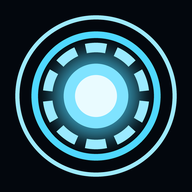
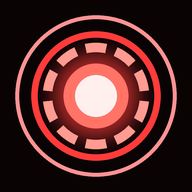
v2.2: kırmızı tema, Recast Audition okuma/düzenleme (onaylı, geri alınabilir)
Claude-Session: https://claude.ai/code/session_01RdxYARfPr9j1EKb8PJH9ki

diff --git a/www/app.js b/www/app.js
@@ -917,7 +917,7 @@ async function renderSettings() {
     <form class="form" data-add-mem><div class="row"><input name="text" placeholder="Elle ekle"><button class="btn">+</button></div></form></div>
 
   <div class="card"><h3>VERİ</h3><div class="row"><button class="btn ghost sm" id="exportBtn">Yedeği kopyala</button><button class="btn ghost sm" id="importBtn">Yedeği yükle</button><button class="btn ghost sm" id="clearChat">Sohbeti sil</button></div>
-    <div class="hint">Titus v2.1 · ${NATIVE ? "Android" : "Web"} · Tüm veriler cihazında.</div></div>`;
+    <div class="hint">Titus v2.2 · ${NATIVE ? "Android" : "Web"} · Tüm veriler cihazında.</div></div>`;
   if (Jarvis) nat(() => Jarvis.wakeStatus()).then(r => r && showWake(r));
 }
 function showWake(r) {
@@ -2308,7 +2308,7 @@ const blobToB64 = b => new Promise(r => { const f = new FileReader(); f.onload =
 const pickFiles = (accept, multiple = false) => new Promise(res => { const i = document.createElement("input"); i.type = "file"; i.accept = accept; i.multiple = multiple; i.onchange = () => res([...(i.files || [])]); i.click(); });
 const loadImg = src => new Promise((res, rej) => { const i = new Image(); i.onload = () => res(i); i.onerror = rej; i.src = src; });
 const fileImg = async f => { const u = URL.createObjectURL(f); const i = await loadImg(u); i._url = u; return i; };
-const brand = () => (SET.brands || []).find(b => b.id === SET.brandId) || { name: SET.name, primary: "#0b2236", accent: "#4fd8ff", text: "#ffffff", font: "Arial", logo: "" };
+const brand = () => (SET.brands || []).find(b => b.id === SET.brandId) || { name: SET.name, primary: "#2c0a0d", accent: "#ff3b3b", text: "#ffffff", font: "Arial", logo: "" };
 const fname = (base, ext) => `${String(base || "jarvis").replace(/[^\wçğıöşüÇĞİÖŞÜ -]/g, "").trim().replace(/\s+/g, "-").slice(0, 40) || "jarvis"}-${ymd(new Date())}.${ext}`;
 
 /* ---------- dosya kaydetme ve paylaşma ---------- */
@@ -2473,9 +2473,9 @@ async function compositeCard(files, info) {
   if (imgs[0]) cover(imgs[0], pad2, pad2, 1000, H - bar - pad2 * 2);
   const gx = 1000 + pad2 * 2, gw = (W - gx - pad2 - pad2) / 2, gh = (H - bar - pad2 * 3) / 2;
   imgs.slice(1, 5).forEach((im, i) => cover(im, gx + (i % 2) * (gw + pad2), pad2 + Math.floor(i / 2) * (gh + pad2), gw, gh));
-  g.fillStyle = b.primary || "#0b2236"; g.fillRect(0, H - bar, W, bar);
+  g.fillStyle = b.primary || "#2c0a0d"; g.fillRect(0, H - bar, W, bar);
   g.fillStyle = "#fff"; g.font = "800 92px Rajdhani, Arial"; g.textBaseline = "middle"; g.fillText((info.name || SET.name).toLocaleUpperCase("tr-TR"), 60, H - bar / 2 - 30);
-  g.font = "500 44px Rajdhani, Arial"; g.fillStyle = b.accent || "#4fd8ff"; g.fillText(info.stats || "", 60, H - bar / 2 + 52);
+  g.font = "500 44px Rajdhani, Arial"; g.fillStyle = b.accent || "#ff3b3b"; g.fillText(info.stats || "", 60, H - bar / 2 + 52);
   g.textAlign = "right"; g.fillStyle = "#fff"; g.font = "600 40px Rajdhani, Arial"; g.fillText(info.contact || b.name || "", W - (b.logo ? 360 : 60), H - bar / 2);
   if (b.logo) { const L = await loadImg(b.logo); const lh = 140, lw = lh * L.width / L.height; g.drawImage(L, W - lw - 60, H - bar / 2 - lh / 2, lw, lh); }
   imgs.forEach(i => URL.revokeObjectURL(i._url));
@@ -2524,7 +2524,7 @@ async function renderVideo({ clips, format = "9:16", music = null, subs = "none"
   const b = brand(); let curSub = "";
   const drawCover = (src, sw, sh, zoom = 1, px = 0.5, py = 0.4) => { const r = Math.max(W / sw, H / sh) * zoom; const dw = sw * r, dh = sh * r; g.drawImage(src, (W - dw) * px, (H - dh) * py, dw, dh); };
   const drawSub = () => { if (!curSub) return; const fs = Math.round(W * 0.052); g.font = `700 ${fs}px Rajdhani, Arial`; g.textAlign = "center"; g.lineJoin = "round"; const words = curSub.split(" "); const lines = []; let l = ""; for (const w of words) { if (g.measureText(l + " " + w).width > W * 0.86 && l) { lines.push(l); l = w; } else l = (l ? l + " " : "") + w; } lines.push(l); lines.forEach((t, i) => { const y = H * 0.82 + i * fs * 1.15; g.lineWidth = fs * 0.18; g.strokeStyle = "rgba(0,0,0,.85)"; g.strokeText(t, W / 2, y); g.fillStyle = "#fff"; g.fillText(t, W / 2, y); }); };
-  const drawCard = (title, sub) => { g.fillStyle = b.primary || "#0b2236"; g.fillRect(0, 0, W, H); g.fillStyle = b.accent || "#4fd8ff"; g.fillRect(W * .1, H * .5 + 6, W * .8, 4); g.textAlign = "center"; g.fillStyle = "#fff"; g.font = `800 ${Math.round(W * .075)}px Rajdhani, Arial`; g.fillText(title || "", W / 2, H * .47); g.font = `500 ${Math.round(W * .042)}px Rajdhani, Arial`; g.fillStyle = "#ddd"; (sub || "").split("\n").forEach((s, i) => g.fillText(s, W / 2, H * .57 + i * W * .055)); };
+  const drawCard = (title, sub) => { g.fillStyle = b.primary || "#2c0a0d"; g.fillRect(0, 0, W, H); g.fillStyle = b.accent || "#ff3b3b"; g.fillRect(W * .1, H * .5 + 6, W * .8, 4); g.textAlign = "center"; g.fillStyle = "#fff"; g.font = `800 ${Math.round(W * .075)}px Rajdhani, Arial`; g.fillText(title || "", W / 2, H * .47); g.font = `500 ${Math.round(W * .042)}px Rajdhani, Arial`; g.fillStyle = "#ddd"; (sub || "").split("\n").forEach((s, i) => g.fillText(s, W / 2, H * .57 + i * W * .055)); };
   const total = clips.reduce((s, c) => s + ((c.end ?? 3) - (c.start || 0)), 0); let done = 0;
   rec.start(500); if (mEl) mEl.play().catch(() => {});
   if (narration) { const src = ac.createBufferSource(); src.buffer = narration; src.connect(dest); src.start(); }
@@ -2625,7 +2625,7 @@ FORMS.doc = FORMS.photo = FORMS.image = FORMS.video = FORMS.card = FORMS.files =
         <div class="hint" id="vidProg"></div><div class="hint">Telefonda işleme gerçek süre kadar sürer; 1-2 dakikalık videolar idealdir.</div>`;
       case "card": return `<div class="card"><h3>KOMPOZİT KART (ZED CARD)</h3><div class="form"><input id="ccName" value="${esc(SET.name)}" placeholder="Ad Soyad"><input id="ccStats" placeholder="Boy 1.80 · Göz kahve · Saç siyah · Beden M"><input id="ccContact" placeholder="İletişim / ajans" value="${esc(brand().name || "")}"><button class="btn" id="ccGo">🗂 Fotoğrafları seç (1 büyük + 4 küçük) ve kart yap</button></div></div>
         <div class="card"><h3>MARKA KİTİ</h3>${(SET.brands || []).map(b => `<div class="step"><span><b style="color:${esc(b.accent)}">■</b> ${esc(b.name)}${b.id === SET.brandId ? " · aktif" : ""}</span><button class="btn ghost sm" data-brand="${b.id}">Seç</button><button class="x" data-brdel="${b.id}">✕</button></div>`).join("") || `<div class="hint">Marka yok.</div>`}
-        <div class="form" style="margin-top:6px"><input id="brName" placeholder="Marka adı (ör. Recast Talent House)"><div class="row"><div><div class="lbl">Ana renk</div><input id="brP" type="color" value="#0b2236" style="padding:2px;height:40px"></div><div><div class="lbl">Vurgu</div><input id="brA" type="color" value="#4fd8ff" style="padding:2px;height:40px"></div></div><div class="row"><button class="btn ghost sm" id="brLogo">Logo seç</button><button class="btn sm" id="brAdd">+ Marka ekle</button></div></div></div>`;
+        <div class="form" style="margin-top:6px"><input id="brName" placeholder="Marka adı (ör. Recast Talent House)"><div class="row"><div><div class="lbl">Ana renk</div><input id="brP" type="color" value="#2c0a0d" style="padding:2px;height:40px"></div><div><div class="lbl">Vurgu</div><input id="brA" type="color" value="#ff3b3b" style="padding:2px;height:40px"></div></div><div class="row"><button class="btn ghost sm" id="brLogo">Logo seç</button><button class="btn sm" id="brAdd">+ Marka ekle</button></div></div></div>`;
       case "files": return `<div class="card"><h3>ÜRETİLEN DOSYALAR</h3>${(S.files || []).map((f, i) => `<div class="item"><div class="ic">${/pptx/.test(f.name) ? "📊" : /docx/.test(f.name) ? "📄" : /mp4|webm/.test(f.name) ? "🎬" : /html/.test(f.name) ? "🌐" : "🖼"}</div><div class="t"><div class="h">${esc(f.name)}</div><div class="meta">${esc(f.path || "")} · ${fmtWhen(f.at)}</div></div><button class="btn ghost sm" data-share="${i}">Paylaş</button></div>`).join("") || `<div class="empty">Henüz dosya yok.</div>`}</div>`;
     }
     return baseList2(sec);
@@ -3161,6 +3161,71 @@ TOOL_GROUPS.push([/brief|recast|teklif|oyuncu öner|casting mail|müşteri/, ["r
       <div class="form"><div class="lbl">Rol başına en fazla öneri</div><input data-set="rbPerRole" type="number" value="${SET.rbPerRole || 6}"></div></div>`);
   };
 }
+
+/* =====================================================================
+   v2.2 — RECAST AUDITION ERİŞİMİ: Titus işleri, başvuruları, tape durumlarını okur ve
+   Burak'ın isteğine göre düzenler (her değişiklik önce onaya gelir).
+   ===================================================================== */
+let AUD_SCHEMA = null, AUD_AT = 0;
+async function audSchema(force) {
+  if (!force && AUD_SCHEMA && Date.now() - AUD_AT < 30 * 6e4) return AUD_SCHEMA;
+  AUD_SCHEMA = await script("audInfo", { sheetId: SET.auditionSheetId || "" }); AUD_AT = Date.now();
+  if (AUD_SCHEMA.id && SET.auditionSheetId !== AUD_SCHEMA.id) { SET.auditionSheetId = AUD_SCHEMA.id; saveSet(); }
+  return AUD_SCHEMA;
+}
+const audShort = sc => (sc.sayfalar || []).map(p => `${p.ad} (${p.satir} kayıt): ${p.basliklar.join(", ")}${p.ornek[0] ? "\n  örnek: " + JSON.stringify(p.ornek[0]).slice(0, 300) : ""}`).join("\n");
+const audFmt = v => /^1\d{12}$/.test(String(v)) ? fmtWhen(localISO(new Date(Number(v)))) : String(v).slice(0, 60);
+function diffText(eski, yeni) { return Object.keys(yeni).map(k => `• ${k}: ${eski && eski[k] !== undefined ? `"${audFmt(eski[k])}" → ` : ""}"${audFmt(yeni[k])}"`).join("\n"); }
+
+async function audFind(sayfa, ara) { return script("audRead", { sheetId: SET.auditionSheetId || "", sayfa, ara: ara || "", limit: 25 }); }
+
+TOOLS.push(
+  T("audition_yapi", "Recast Audition uygulamasının veri tablosundaki sayfaları (ör. ISLER, BASVURULAR, GONDERIMLER), sütunlarını ve örnek kayıtları gösterir. Audition ile ilgili bir şeyi okumadan/düzenlemeden önce bir kez çağır.", {}, [], async () => { const sc = await audSchema(true); return { tablo: sc.tablo, yapi: audShort(sc) }; }),
+  T("audition_oku", "Recast Audition'dan kayıt okur/arar (işler, başvurular, tape durumları, gönderimler).", { sayfa: str("Sayfa adı, ör. ISLER"), ara: str("Aranacak kelime (proje, oyuncu adı, durum…) — boşsa en yeniler") }, ["sayfa"], a => audFind(a.sayfa, a.ara)),
+  T("audition_duzenle", "Recast Audition'daki bir kaydı Burak'ın istediği gibi değiştirir (ör. işin son teslim tarihi, durum, açıklama, ücret, rol notu, tape durumu). Önce audition_oku ile kaydın id'sini ve sütunların mevcut biçimini öğren; tarih/sayı sütunlarını aynı biçimde yaz (ör. milisaniye zaman damgası ise milisaniye). Burak'a onay sorulur.", { sayfa: str("Sayfa"), id: str("Kaydın id'si"), degisiklikler_json: str('Değişecek sütunlar JSON olarak, ör. {"durum":"Kapandı"}') }, ["sayfa", "id", "degisiklikler_json"],
+    async a => {
+      let ch; try { ch = JSON.parse(a.degisiklikler_json); } catch { return { hata: "degisiklikler_json geçerli JSON değil" }; }
+      let cur = null; try { cur = ((await audFind(a.sayfa, a.id)).satirlar || []).find(r => String(r.id) === String(a.id)); } catch {}
+      if (!(await confirmBox(`Recast Audition · ${a.sayfa}${cur ? " · " + (cur.proje || cur.ad || cur.baslik || a.id) : ""}\n${diffText(cur, ch)}`, "Değiştir"))) return { iptal: true };
+      const r = await script("audUpdate", { sheetId: SET.auditionSheetId || "", sayfa: a.sayfa, id: a.id, degisiklikler: ch });
+      S.audLog = [{ at: localISO(new Date()), sayfa: a.sayfa, id: a.id, eski: r.eski, yeni: ch }, ...(S.audLog || [])].slice(0, 40); save();
+      return { ok: true, eski: r.eski, not: "Audition uygulamasında sayfayı yenileyince görünür. Bu değişiklik oyunculara/müşteriye otomatik bildirim göndermez." };
+    }),
+  T("audition_ekle", "Recast Audition'a yeni kayıt ekler (ör. yeni iş). Önce audition_yapi ile sütunları öğren, uygulamanın kullandığı biçimde doldur. Burak'a onay sorulur.", { sayfa: str("Sayfa"), kayit_json: str("Yeni kayıt JSON (sütun adı: değer)") }, ["sayfa", "kayit_json"],
+    async a => {
+      let k; try { k = JSON.parse(a.kayit_json); } catch { return { hata: "kayit_json geçerli JSON değil" }; }
+      if (!(await confirmBox(`Recast Audition · ${a.sayfa} sayfasına eklensin mi?\n${diffText(null, k)}`, "Ekle"))) return { iptal: true };
+      return script("audAdd", { sheetId: SET.auditionSheetId || "", sayfa: a.sayfa, kayit: k });
+    }),
+  T("audition_geri_al", "Titus'un Recast Audition'da yaptığı son değişikliği geri alır.", {}, [],
+    async () => { const l = (S.audLog || [])[0]; if (!l) return { hata: "Geri alınacak değişiklik yok" }; if (!(await confirmBox(`Son değişiklik geri alınsın mı?\n${l.sayfa} · ${diffText(l.yeni, l.eski)}`, "Geri al"))) return { iptal: true }; await script("audUpdate", { sheetId: SET.auditionSheetId || "", sayfa: l.sayfa, id: l.id, degisiklikler: l.eski }); S.audLog.shift(); save(); return { ok: true }; }),
+  T("audition_ac", "Recast Audition uygulamasını açar.", {}, [], async () => { if (!SET.auditionUrl) return { hata: "Audition adresi yok (Ayarlar → Recast Audition)." }; await openUrl(SET.auditionUrl); return { ok: true }; })
+);
+Object.assign(ACT_TR, { audition_yapi: "🎞 audition", audition_oku: "🎞 audition", audition_duzenle: "✏ audition", audition_ekle: "➕ audition", audition_geri_al: "↩ audition", audition_ac: "🎞 aç" });
+TOOL_GROUPS.push([/audition|self-?tape|tape|başvuru|seçme işi|işler|son teslim|reshoot|tekrar çek|müşteriye gönder|casting direkt/, ["audition_yapi", "audition_oku", "audition_duzenle", "audition_ekle", "audition_geri_al", "audition_ac"]]);
+{
+  const baseSys = systemPrompt;
+  systemPrompt = function () {
+    let s = baseSys();
+    if (SET.scriptUrl) s += "\nRECAST AUDITION: Burak'ın ajans audition uygulamasına audition_* araçlarıyla erişebilirsin. Okumadan önce gerekirse audition_yapi ile yapıyı öğren. Değişiklikleri onun istediği şekilde, mevcut veri biçimini koruyarak yap; büyük toplu değişikliklerde önce ne yapacağını özetle." + (AUD_SCHEMA ? "\nAUDITION YAPISI:\n" + audShort(AUD_SCHEMA).slice(0, 2500) : "");
+    return s;
+  };
+}
+{
+  const base = renderSettings;
+  renderSettings = async function () {
+    await base();
+    $("#b-set").insertAdjacentHTML("beforeend", `<div class="card"><h3>RECAST AUDITION</h3><div class="form">
+      <div class="lbl">Uygulama adresi</div><input data-set="auditionUrl" value="${esc(SET.auditionUrl || "")}" placeholder="https://recast-audition.netlify.app/#KODUN">
+      <div class="lbl">"RECAST AUDITION — Veriler" tablo kimliği (boş bırakırsan adıyla bulunur)</div><input data-set="auditionSheetId" value="${esc(SET.auditionSheetId || "")}" placeholder="1AbC…">
+      <div class="row"><button class="btn ghost sm" id="audTest">Bağlantıyı dene</button></div>
+      <div class="hint">Titus işleri, başvuruları ve tape durumlarını okuyup senin istediğin gibi düzenler; her değişiklik önce onayına gelir, "geri al" diyebilirsin. Titus'un Google bağlantısı, Audition'ın kurulu olduğu Google hesabıyla aynı olmalı.</div></div></div>`);
+  };
+}
+document.addEventListener("click", async e => {
+  if (!e.target.closest("#audTest")) return;
+  try { const sc = await audSchema(true); toast(`✓ ${sc.tablo}: ${(sc.sayfalar || []).map(p => p.ad + " " + p.satir).join(", ")}`, 6000); } catch (er) { toast("✗ " + er.message, 6000); }
+});
 
 /* ================= açılış ================= */
 async function boot() {

diff --git a/www/style.css b/www/style.css
@@ -1,18 +1,18 @@
 :root{
-  --bg:#03070d; --panel:rgba(10,24,38,.78); --line:rgba(80,200,255,.22);
-  --cyan:#4fd8ff; --cyan2:#9beaff; --gold:#ffb547; --red:#ff4f5e; --green:#3ee68a;
-  --txt:#d8f3ff; --dim:#7aa3b8;
+  --bg:#0a0304; --panel:rgba(34,9,11,.78); --line:rgba(255,72,72,.22);
+  --cyan:#ff3b3b; --cyan2:#ff9b8f; --gold:#ffb547; --red:#ff9f43; --green:#3ee68a;
+  --txt:#ffe5e1; --dim:#bf948f;
   --st:env(safe-area-inset-top,0px); --sb:env(safe-area-inset-bottom,0px);
 }
 *{box-sizing:border-box;margin:0;padding:0;-webkit-tap-highlight-color:transparent}
 html,body{height:100%;overscroll-behavior:none}
-body{background:radial-gradient(1000px 600px at 50% -10%,#0b2236 0%,var(--bg) 60%) fixed;color:var(--txt);
+body{background:radial-gradient(1000px 600px at 50% -10%,#2c0a0d 0%,var(--bg) 60%) fixed;color:var(--txt);
   font-family:"Rajdhani","Segoe UI",Roboto,system-ui,sans-serif;font-size:16px}
 body:before{content:"";position:fixed;inset:0;pointer-events:none;
-  background-image:linear-gradient(rgba(79,216,255,.035) 1px,transparent 1px),linear-gradient(90deg,rgba(79,216,255,.035) 1px,transparent 1px);background-size:34px 34px}
+  background-image:linear-gradient(rgba(255,59,59,.035) 1px,transparent 1px),linear-gradient(90deg,rgba(255,59,59,.035) 1px,transparent 1px);background-size:34px 34px}
 #app{display:flex;flex-direction:column;height:100%;max-width:900px;margin:0 auto;padding-top:var(--st)}
 .top{display:flex;justify-content:space-between;align-items:center;padding:10px 14px 6px}
-.brand{font-weight:800;letter-spacing:.32em;color:var(--cyan);font-size:19px;text-shadow:0 0 14px rgba(79,216,255,.6)}
+.brand{font-weight:800;letter-spacing:.32em;color:var(--cyan);font-size:19px;text-shadow:0 0 14px rgba(255,59,59,.6)}
 .brand small{display:block;letter-spacing:.14em;font-size:11px;color:var(--dim);font-weight:600}
 .clock{text-align:right;color:var(--cyan2);font-size:20px;font-weight:700;font-variant-numeric:tabular-nums}
 .clock small{display:block;font-size:12px;color:var(--dim);font-weight:500}
@@ -24,10 +24,10 @@ main{flex:1;min-height:0;position:relative}
 .core{display:flex;flex-direction:column;align-items:center;gap:6px;padding:4px 0}
 .reactor{width:132px;height:132px;border-radius:50%;position:relative;border:none;background:transparent;cursor:pointer;flex:none}
 .reactor .r{position:absolute;border-radius:50%}
-.reactor .r1{inset:0;border:2px dashed rgba(79,216,255,.4);animation:spin 18s linear infinite}
+.reactor .r1{inset:0;border:2px dashed rgba(255,59,59,.4);animation:spin 18s linear infinite}
 .reactor .r2{inset:13px;border:3px solid transparent;border-top-color:var(--cyan);border-bottom-color:var(--cyan);animation:spin 6s linear infinite reverse}
-.reactor .r3{inset:27px;border:2px solid rgba(155,234,255,.5);animation:spin 10s linear infinite}
-.reactor .c{position:absolute;inset:41px;border-radius:50%;background:radial-gradient(circle,#e9fbff 0%,#7fe3ff 35%,#1a8fc0 70%,transparent 72%);box-shadow:0 0 30px #4fd8ff,0 0 70px rgba(79,216,255,.5)}
+.reactor .r3{inset:27px;border:2px solid rgba(255,155,145,.5);animation:spin 10s linear infinite}
+.reactor .c{position:absolute;inset:41px;border-radius:50%;background:radial-gradient(circle,#fff0ee 0%,#ff7466 35%,#c21a1a 70%,transparent 72%);box-shadow:0 0 30px #ff3b3b,0 0 70px rgba(255,59,59,.5)}
 .reactor.listen .c{animation:pulse .8s ease-in-out infinite;background:radial-gradient(circle,#fff 0%,#ffd38a 35%,#ff9d1c 70%,transparent 72%);box-shadow:0 0 30px var(--gold),0 0 80px rgba(255,181,71,.55)}
 .reactor.think .r2{animation-duration:1.1s}
 .reactor.speak .c{animation:pulse .45s ease-in-out infinite}
@@ -36,11 +36,11 @@ main{flex:1;min-height:0;position:relative}
 .status{font-size:12px;letter-spacing:.3em;color:var(--dim);text-transform:uppercase;min-height:15px;text-align:center;font-weight:700}
 .chips{display:flex;gap:6px;overflow-x:auto;max-width:100%;padding:4px 2px;scrollbar-width:none}
 .chips::-webkit-scrollbar{display:none}
-.chip{flex:none;background:rgba(79,216,255,.08);border:1px solid var(--line);color:var(--cyan2);padding:7px 11px;border-radius:999px;font:600 14px inherit;font-family:inherit;cursor:pointer}
+.chip{flex:none;background:rgba(255,59,59,.08);border:1px solid var(--line);color:var(--cyan2);padding:7px 11px;border-radius:999px;font:600 14px inherit;font-family:inherit;cursor:pointer}
 .log{flex:1;min-height:0;overflow-y:auto;display:flex;flex-direction:column;gap:8px;padding:6px 2px}
 .msg{max-width:88%;padding:9px 12px;border-radius:12px;line-height:1.38;white-space:pre-wrap;word-wrap:break-word;font-size:16px}
 .msg.u{align-self:flex-end;background:rgba(255,181,71,.12);border:1px solid rgba(255,181,71,.3)}
-.msg.j{align-self:flex-start;background:rgba(79,216,255,.08);border:1px solid var(--line)}
+.msg.j{align-self:flex-start;background:rgba(255,59,59,.08);border:1px solid var(--line)}
 .msg.j b{font-size:10px;letter-spacing:.22em;color:var(--cyan);display:block;margin-bottom:2px}
 .msg.sys{align-self:center;font-size:13px;color:var(--dim);background:none;text-align:center}
 .msg .acts{font-size:12px;color:var(--dim);margin-top:4px}
@@ -49,7 +49,7 @@ input,select,textarea{background:rgba(0,0,0,.38);border:1px solid var(--line);bo
 textarea{min-height:110px;resize:vertical}
 input:focus,select:focus,textarea:focus{border-color:var(--cyan)}
 .inbar input{flex:1}
-.btn{background:linear-gradient(180deg,#1aa6d6,#0b6f95);border:1px solid #57d9ff;color:#eafcff;border-radius:10px;padding:0 14px;font:700 15px inherit;font-family:inherit;cursor:pointer;min-height:44px;white-space:nowrap}
+.btn{background:linear-gradient(180deg,#e03030,#9a1414);border:1px solid #ff6a5e;color:#fff1ef;border-radius:10px;padding:0 14px;font:700 15px inherit;font-family:inherit;cursor:pointer;min-height:44px;white-space:nowrap}
 .btn.ghost{background:transparent;border-color:var(--line);color:var(--cyan2)}
 .btn.warn{background:linear-gradient(180deg,#d6481a,#952b0b);border-color:#ff8a57}
 .btn.sm{min-height:34px;font-size:13px;padding:0 10px}
@@ -58,7 +58,7 @@ input:focus,select:focus,textarea:focus{border-color:var(--cyan)}
 /* sections */
 .seg{display:flex;gap:5px;overflow-x:auto;scrollbar-width:none;position:sticky;top:0;z-index:2;padding:4px 0 8px;background:linear-gradient(var(--bg) 70%,transparent)}
 .seg button{flex:1 0 auto;min-width:72px;background:transparent;border:1px solid var(--line);color:var(--dim);padding:9px 3px;border-radius:9px;font:700 13px inherit;font-family:inherit}
-.seg button.on{color:#03121c;background:var(--cyan);border-color:var(--cyan)}
+.seg button.on{color:#1a0506;background:var(--cyan);border-color:var(--cyan)}
 .card{background:var(--panel);border:1px solid var(--line);border-radius:14px;padding:12px;margin-bottom:10px}
 .card h3{font-size:11px;letter-spacing:.24em;color:var(--cyan);margin-bottom:9px;font-weight:700}
 .item{display:flex;gap:10px;align-items:flex-start;padding:10px;border:1px solid var(--line);border-radius:10px;background:rgba(0,0,0,.25);margin-bottom:7px}
@@ -69,7 +69,7 @@ input:focus,select:focus,textarea:focus{border-color:var(--cyan)}
 .item.late .meta{color:var(--red)}
 .item.done .h{text-decoration:line-through;opacity:.5}
 .x{background:none;border:none;color:var(--dim);font-size:18px;padding:0 4px;cursor:pointer}
-.ck{width:24px;height:24px;border-radius:7px;border:2px solid var(--cyan);background:none;flex:none;color:#03121c;font-weight:800;cursor:pointer}
+.ck{width:24px;height:24px;border-radius:7px;border:2px solid var(--cyan);background:none;flex:none;color:#1a0506;font-weight:800;cursor:pointer}
 .ck.on{background:var(--cyan)}
 .empty{color:var(--dim);text-align:center;padding:16px 6px;font-size:15px}
 .form{display:grid;gap:7px}
@@ -78,17 +78,17 @@ input:focus,select:focus,textarea:focus{border-color:var(--cyan)}
 .row>.btn{flex:0 0 auto}
 .lbl{font-size:13px;color:var(--dim);margin:6px 0 -2px}
 .big{font-size:30px;font-weight:800;color:var(--cyan2)}
-.bar{height:8px;border-radius:5px;background:rgba(79,216,255,.12);overflow:hidden;margin-top:4px}
+.bar{height:8px;border-radius:5px;background:rgba(255,59,59,.12);overflow:hidden;margin-top:4px}
 .bar i{display:block;height:100%;background:var(--cyan)}
 .dots{display:flex;gap:4px;margin-top:6px}
 .dots span{width:16px;height:16px;border-radius:4px;border:1px solid var(--line);font-size:9px;display:flex;align-items:center;justify-content:center;color:var(--dim)}
-.dots span.on{background:var(--green);border-color:var(--green);color:#03121c}
-.toggle{display:flex;justify-content:space-between;align-items:center;gap:10px;padding:8px 0;border-bottom:1px dashed rgba(80,200,255,.12)}
+.dots span.on{background:var(--green);border-color:var(--green);color:#1a0506}
+.toggle{display:flex;justify-content:space-between;align-items:center;gap:10px;padding:8px 0;border-bottom:1px dashed rgba(255,72,72,.12)}
 .toggle:last-child{border-bottom:none}
 .toggle span small{display:block;color:var(--dim);font-size:12.5px}
-.sw{appearance:none;width:46px;height:26px;border-radius:20px;background:#22323d;position:relative;flex:none;border:1px solid var(--line);padding:0}
-.sw:before{content:"";position:absolute;top:2px;left:2px;width:20px;height:20px;border-radius:50%;background:#9ab;transition:.2s}
-.sw:checked{background:#0b6f95}
+.sw{appearance:none;width:46px;height:26px;border-radius:20px;background:#3d2224;position:relative;flex:none;border:1px solid var(--line);padding:0}
+.sw:before{content:"";position:absolute;top:2px;left:2px;width:20px;height:20px;border-radius:50%;background:#c9a8a5;transition:.2s}
+.sw:checked{background:#9a1414}
 .sw:checked:before{left:22px;background:var(--cyan)}
 .perm{display:flex;justify-content:space-between;align-items:center;gap:8px;padding:7px 0}
 .ok{color:var(--green)} .no{color:var(--gold)}
@@ -98,23 +98,23 @@ input:focus,select:focus,textarea:focus{border-color:var(--cyan)}
 .line.me{border-color:rgba(255,181,71,.5);background:rgba(255,181,71,.08)}
 .line.cur{box-shadow:0 0 0 2px var(--cyan)}
 .line b{font-size:11px;letter-spacing:.1em;color:var(--cyan);display:block}
-.tabbar{display:flex;border-top:1px solid var(--line);background:rgba(3,10,18,.95);padding-bottom:var(--sb)}
+.tabbar{display:flex;border-top:1px solid var(--line);background:rgba(18,4,5,.95);padding-bottom:var(--sb)}
 .tabbar button{flex:1;background:none;border:none;color:var(--dim);padding:7px 0 8px;font:700 11px inherit;font-family:inherit;letter-spacing:.05em}
 .tabbar button i{display:block;font-style:normal;font-size:19px;line-height:1.2}
 .tabbar button.on{color:var(--cyan)}
-.modal{position:fixed;inset:0;background:rgba(2,6,12,.82);display:none;align-items:center;justify-content:center;z-index:50;padding:20px}
+.modal{position:fixed;inset:0;background:rgba(10,2,3,.82);display:none;align-items:center;justify-content:center;z-index:50;padding:20px}
 .modal.on{display:flex}
 .modal .box{max-width:420px;width:100%;border:1px solid var(--gold);border-radius:16px;padding:22px 18px;background:#0a1420;box-shadow:0 0 50px rgba(255,181,71,.3);text-align:center}
 .modal h2{color:var(--gold);letter-spacing:.2em;font-size:14px;margin-bottom:10px}
 .modal p{font-size:19px;font-weight:600;margin-bottom:16px;line-height:1.35}
 .modal .row{justify-content:center}
-.toast{position:fixed;left:50%;bottom:calc(80px + var(--sb));transform:translateX(-50%);background:#0d2232;border:1px solid var(--cyan);color:var(--txt);padding:9px 14px;border-radius:10px;font-size:14px;opacity:0;pointer-events:none;transition:.25s;z-index:60;max-width:90%}
+.toast{position:fixed;left:50%;bottom:calc(80px + var(--sb));transform:translateX(-50%);background:#2a0b0e;border:1px solid var(--cyan);color:var(--txt);padding:9px 14px;border-radius:10px;font-size:14px;opacity:0;pointer-events:none;transition:.25s;z-index:60;max-width:90%}
 .toast.on{opacity:1}
 .hint{font-size:13px;color:var(--dim);line-height:1.4;margin-top:6px}
 code{font-family:ui-monospace,monospace;font-size:12px;color:var(--cyan2)}
 
 .seg::-webkit-scrollbar{display:none}
-.lock{position:fixed;inset:0;z-index:80;background:radial-gradient(800px 500px at 50% 30%,#0b2236,#03070d);display:none;flex-direction:column;align-items:center;justify-content:center;gap:18px}
+.lock{position:fixed;inset:0;z-index:80;background:radial-gradient(800px 500px at 50% 30%,#2c0a0d,#0a0304);display:none;flex-direction:column;align-items:center;justify-content:center;gap:18px}
 .lock.on{display:flex}
 .lock p{letter-spacing:.3em;color:var(--cyan);font-weight:700}
 .steps{display:grid;gap:6px;margin:6px 0}

diff --git a/www/index.html b/www/index.html
@@ -3,7 +3,7 @@
 <head>
 <meta charset="utf-8">
 <meta name="viewport" content="width=device-width, initial-scale=1, viewport-fit=cover, user-scalable=no">
-<meta name="theme-color" content="#03070d">
+<meta name="theme-color" content="#0a0304">
 <title>Titus</title>
 <link rel="stylesheet" href="style.css">
 <link rel="manifest" href="manifest.webmanifest">
